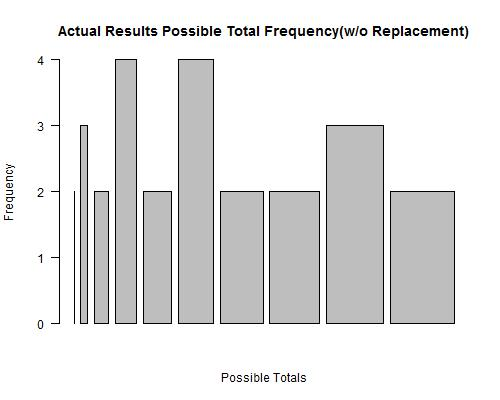
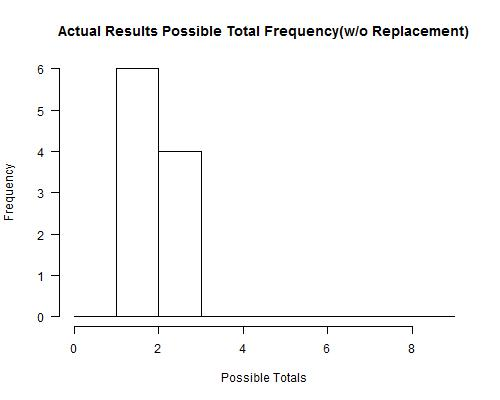
Negative Binomial

diff --git a/src/Controller/RConnector.java b/src/Controller/RConnector.java
@@ -135,25 +135,17 @@ import java.io.FileNotFoundException;
      return result;
    }
    
-   public static int[][] nbinomialWithReplacement()throws RserveException, REXPMismatchException, FileNotFoundException, IOException {  
+   public static int[] nbinomial()throws RserveException, REXPMismatchException, FileNotFoundException, IOException {  
      RConnection c = new RConnection("localhost", 6311);  
-     int[][] result = new int[Card.nTrials][Card.drawCards];
-     int i=0,j=0;
-     int[] temp = new int[Card.drawCards];
+     int[] result = new int[Card.nTrials];
+     int i=0;
      if(c.isConnected()) {  
        System.out.println("Connected to RServe.");  
        org.rosuda.REngine.REXP x0 = c.eval("R.version.string");  
        System.out.println(x0.asString());  
        while(i<Card.nTrials){
         REXP exp = c.eval("rnbinom(1,"+Card.drawCards+",0.5)");
-        for(int k=0; k<exp.asIntegers().length; k++){
-            temp[k] = exp.asIntegers()[k];
-        }
-        while(j<Card.drawCards){
-            result[i][j] = temp[j];
-            j++;
-        }
-        j=0;
+        result[i] = exp.asInteger();
         i++;
        }
      } else {  
@@ -303,5 +295,118 @@ import java.io.FileNotFoundException;
      c.close();  
      System.out.println("Session Closed");  
    }  
+   
+   public static void createPlot1D(int[] result1,int[] result2)throws RserveException, REXPMismatchException, FileNotFoundException, IOException {  
+     RConnection c = new RConnection("localhost", 6311);  
+     if(c.isConnected()) {  
+       System.out.println("Connected to RServe.");  
+       org.rosuda.REngine.REXP x0 = c.eval("R.version.string");  
+       System.out.println(x0.asString());
+       String temp = "";
+       int total = 0;
+       for(int i=0; i<result1.length; i++){
+           total = result1[i];
+           if(i==0)
+               temp = temp.concat(total+"");
+           else
+               temp = temp.concat(","+total);
+       }
+        c.voidEval("y = seq(0,"+(Card.nTrials-1)+",1)");
+        c.voidEval("jpeg('NetBeansProjects/MODESTAMC02/plots/desiredtotalfrequency1.jpg',width=500,height=400)");
+        c.voidEval("barplot(c("+temp+"),y,main='Actual Results Possible Total Frequency(w/ Replacement)',xlab='Possible Totals',ylab='Frequency',las=1)");
+        c.voidEval("dev.off()");
+        if(Card.experiment != 1){
+            temp = "";
+            for(int i=0; i<result2.length; i++){
+               total = result2[i];
+               if(i==0)
+                   temp = temp.concat(total+"");
+               else
+                   temp = temp.concat(","+total);
+           }
+            c.voidEval("y = seq(0,"+(Card.nTrials-1)+",1)");
+            c.voidEval("jpeg('NetBeansProjects/MODESTAMC02/plots/desiredtotalfrequency2.jpg',width=500,height=400)");
+            c.voidEval("barplot(c("+temp+"),y,main='Actual Results Possible Total Frequency(w/o Replacement)',xlab='Possible Totals',ylab='Frequency',las=1)");
+            c.voidEval("dev.off()");
+        }
+        temp = "";
+        double d;
+        for(int i=0; i<result1.length; i++){
+           total = result1[i];
+           d = total/(Card.drawCards*13);
+           if(Card.experiment == 0)
+               d = (double)total/(Card.drawCards);
+           else if(Card.experiment == 1)
+               d = (double)total/26;
+           if(i==0)
+               temp = temp.concat(d+"");
+           else
+               temp = temp.concat(","+d);
+       }
+         System.out.println(temp);
+        c.voidEval("y = seq(0,"+(Card.nTrials-1)+",1)");
+        c.voidEval("jpeg('NetBeansProjects/MODESTAMC02/plots/actualprobability1.jpg',width=500,height=400)");
+        c.voidEval("barplot(c("+temp+"),y,main='Actual Probability Distribution of Possible Totals(w/ Replacement)',xlab='Possible Totals',ylab='Probability',las=1)");
+        c.voidEval("dev.off()");
+        if(Card.experiment != 1){
+            temp = "";
+            for(int i=0; i<result2.length; i++){
+               total = result2[i];
+               d = total/(Card.drawCards*13);
+               if(Card.experiment == 0)
+                   d = (double)total/(Card.drawCards);
+               else if(Card.experiment == 1)
+               d = (double)total/26;
+               if(i==0)
+                   temp = temp.concat(d+"");
+               else
+                   temp = temp.concat(","+d);
+           }
+            System.out.println(temp);
+            c.voidEval("y = seq(0,"+(Card.nTrials-1)+",1)");
+            c.voidEval("jpeg('NetBeansProjects/MODESTAMC02/plots/actualprobability2.jpg',width=500,height=400)");
+            c.voidEval("barplot(c("+temp+"),y,main='Actual Probability Distribution of Possible Totals(w/o Replacement)',xlab='Possible Totals',ylab='Probability',las=1)");
+            c.voidEval("dev.off()");
+        }
+        temp = "";
+        for(int i=0; i<result1.length; i++){
+           d = Card.desiredTotal/(Card.drawCards*13);
+           if(Card.experiment == 0)
+               d = (double)Card.desiredTotal/(Card.drawCards);
+           else if(Card.experiment == 1)
+               d = (double)Card.desiredTotal/26;
+           if(i==0)
+               temp = temp.concat(d+"");
+           else
+               temp = temp.concat(","+d);
+       }
+        c.voidEval("y = seq(0,"+(Card.nTrials-1)+",1)");
+        c.voidEval("jpeg('NetBeansProjects/MODESTAMC02/plots/idealprobability1.jpg',width=500,height=400)");
+        c.voidEval("barplot(c("+temp+"),y,main='Ideal Probability Distribution of Possible Totals(w/ Replacement)',xlab='Possible Totals',ylab='Probability',las=1)");
+        c.voidEval("dev.off()");
+        if(Card.experiment != 1){
+            temp = "";
+            for(int i=0; i<result2.length; i++){
+               d = Card.desiredTotal/(Card.drawCards*13);
+               if(Card.experiment == 0)
+                   d = (double)Card.desiredTotal/(Card.drawCards);
+               else if(Card.experiment == 1)
+               d = (double)Card.desiredTotal/26;
+               if(i==0)
+                   temp = temp.concat(d+"");
+               else
+                   temp = temp.concat(","+d);
+           }
+            c.voidEval("y = seq(0,"+(Card.nTrials-1)+",1)");
+            c.voidEval("jpeg('NetBeansProjects/MODESTAMC02/plots/idealprobability2.jpg',width=500,height=400)");
+            c.voidEval("barplot(c("+temp+"),y,main='Ideal Probability Distribution of Possible Totals(w/o Replacement)',xlab='Possible Totals',ylab='Probability',las=1)");
+            c.voidEval("dev.off()");
+        }
+     } else {  
+       System.out.println("Rserve could not connect");  
+     }  
+     c.close();  
+     System.out.println("Session Closed");  
+   }
    
  }  

diff --git a/src/View/DesiredTotal.java b/src/View/DesiredTotal.java
@@ -9,6 +9,7 @@ package View;
  *
  * @author msi
  */
+import Controller.RConnector;
 import Controller.SaveLoadController;
 import Model.Card;
 import javax.swing.*;
@@ -50,6 +51,50 @@ public class DesiredTotal extends JFrame implements ActionListener{
             
             else{
                 Card.desiredTotal = Integer.parseInt(input.getText().toString());
+                int[][] result1 = new int[Card.nTrials][Card.drawCards];
+                int[][] result2 = new int[Card.nTrials][Card.drawCards];
+                int[] result3 = new int[Card.nTrials];
+                int[] result4 = new int[Card.nTrials];
+                try{
+                    if(Card.experiment == 0){
+                        //binomial
+                        result1 = Controller.RConnector.binomialWithReplacement();
+                        result2 = Controller.RConnector.binomialWithoutReplacement();
+                        SaveLoadController.saveLog2DArray(result1, result2);
+                        RConnector.createPlot(result1, result2);
+                    }
+                    else if(Card.experiment == 1){
+                        //negative binomial
+                        result3 = Controller.RConnector.nbinomial();
+                        result4 = null;
+                        SaveLoadController.saveLog1DArray(result3, result4);
+                        RConnector.createPlot1D(result3, result4);
+                        
+                    }
+                    else if(Card.experiment == 2){
+                        //hypergeometric
+                        result1 = Controller.RConnector.withReplacement();
+                        result2 = Controller.RConnector.withoutReplacement();
+                        SaveLoadController.saveLog2DArray(result1, result2);
+                        RConnector.createPlot(result1, result2);
+                    }
+                    else if(Card.experiment == 3){
+                        //multinomial
+                        result1 = Controller.RConnector.withReplacement();
+                        result2 = Controller.RConnector.withoutReplacement();
+                        SaveLoadController.saveLog2DArray(result1, result2);
+                        RConnector.createPlot(result1, result2);
+                    }
+                    else{
+                        result1 = Controller.RConnector.withReplacement();
+                        result2 = Controller.RConnector.withoutReplacement();
+                        SaveLoadController.saveLog2DArray(result1, result2);
+                        RConnector.createPlot(result1, result2);
+                    }
+                    
+                }catch(Exception err){
+                    err.printStackTrace();
+                }
                 SaveLoadController.checkLog();
                 FrameManager.getAnotherFrame("IdealActualProbability");
             }

diff --git a/src/View/GraphActualIdealProb.java b/src/View/GraphActualIdealProb.java
@@ -65,28 +65,35 @@ public class GraphActualIdealProb extends JFrame implements ActionListener{
             e.printStackTrace();
         }
         
-        path = "plots/actualprobability2.jpg";
-        try{
-            File file = new File(path);
-            BufferedImage image = ImageIO.read(file);
-            JLabel label = new JLabel(new ImageIcon(image));
-            label.setBounds(0,400,500,400);
-            label.setVisible(true);
-            this.add(label);
-        } catch(IOException e){
-            e.printStackTrace();
+        if(Card.experiment != 1){
+            path = "plots/actualprobability2.jpg";
+            try{
+                File file = new File(path);
+                BufferedImage image = ImageIO.read(file);
+                JLabel label = new JLabel(new ImageIcon(image));
+                label.setBounds(0,400,500,400);
+                label.setVisible(true);
+                this.add(label);
+            } catch(IOException e){
+                e.printStackTrace();
+            }
+
+            path = "plots/idealprobability2.jpg";
+            try{
+                File file = new File(path);
+                BufferedImage image = ImageIO.read(file);
+                JLabel label = new JLabel(new ImageIcon(image));
+                label.setBounds(500,400,500,400);
+                label.setVisible(true);
+                this.add(label);
+            } catch(IOException e){
+                e.printStackTrace();
+            }
         }
-        
-        path = "plots/idealprobability2.jpg";
-        try{
-            File file = new File(path);
-            BufferedImage image = ImageIO.read(file);
-            JLabel label = new JLabel(new ImageIcon(image));
-            label.setBounds(500,400,500,400);
-            label.setVisible(true);
-            this.add(label);
-        } catch(IOException e){
-            e.printStackTrace();
+        else{
+            btnInput.setBounds(110,420,70,30);
+            btnBack.setBounds(10,420,70,30);
+            this.setSize(1050,500);
         }
         //this.setVisible(true);
         

diff --git a/src/View/NSelection.java b/src/View/NSelection.java
@@ -54,39 +54,6 @@ public class NSelection extends JFrame implements ActionListener{
             
             else{
                 Card.nTrials = Integer.parseInt(input.getText().toString());
-                //do experiments and save in txt file
-                int[][] result1 = new int[Card.nTrials][Card.drawCards];
-                int[][] result2 = new int[Card.nTrials][Card.drawCards];
-                try{
-                    if(Card.experiment == 0){
-                        //binomial
-                        result1 = Controller.RConnector.binomialWithReplacement();
-                        result2 = Controller.RConnector.binomialWithoutReplacement();
-                    }
-                    else if(Card.experiment == 1){
-                        //negative binomial
-                        result1 = Controller.RConnector.withReplacement();
-                        result2 = Controller.RConnector.withoutReplacement();
-                    }
-                    else if(Card.experiment == 2){
-                        //hypergeometric
-                        result1 = Controller.RConnector.withReplacement();
-                        result2 = Controller.RConnector.withoutReplacement();
-                    }
-                    else if(Card.experiment == 3){
-                        //multinomial
-                        result1 = Controller.RConnector.withReplacement();
-                        result2 = Controller.RConnector.withoutReplacement();
-                    }
-                    else{
-                        result1 = Controller.RConnector.withReplacement();
-                        result2 = Controller.RConnector.withoutReplacement();
-                    }
-                    SaveLoadController.saveLog2DArray(result1, result2);
-                    RConnector.createPlot(result1, result2);
-                }catch(Exception err){
-                    err.printStackTrace();
-                }
                 FrameManager.getAnotherFrame("DesiredTotal");
             }
         }

diff --git a/src/View/GraphActualResults.java b/src/View/GraphActualResults.java
@@ -52,16 +52,21 @@ public class GraphActualResults extends JFrame implements ActionListener{
             e.printStackTrace();
         }
         
-        path = "plots/desiredtotalfrequency2.jpg";
-        try{
-            File file = new File(path);
-            BufferedImage image = ImageIO.read(file);
-            JLabel label = new JLabel(new ImageIcon(image));
-            label.setBounds(500,0,500,400);
-            label.setVisible(true);
-            this.add(label);
-        } catch(IOException e){
-            e.printStackTrace();
+        if(Card.experiment != 1){
+            path = "plots/desiredtotalfrequency2.jpg";
+            try{
+                File file = new File(path);
+                BufferedImage image = ImageIO.read(file);
+                JLabel label = new JLabel(new ImageIcon(image));
+                label.setBounds(500,0,500,400);
+                label.setVisible(true);
+                this.add(label);
+            } catch(IOException e){
+                e.printStackTrace();
+            }
+        }
+        else{
+            this.setSize(550,500);
         }
         //this.setVisible(true);
         

diff --git a/src/View/IdealActualProbability.java b/src/View/IdealActualProbability.java
@@ -43,11 +43,19 @@ public class IdealActualProbability extends JFrame implements ActionListener{
         this.setLayout(null);
         this.add(lbl1);
         this.add(lbl2);
-        this.add(lbl3);
         this.add(lbl4);
         this.add(lbl5);
-        this.add(lbl6);
         this.add(btnNext);
+        
+        if(Card.experiment != 1){
+            this.add(lbl3);
+            this.add(lbl6);
+        }
+        else{
+            lbl4.setBounds(10,80,400,30);
+            lbl5.setBounds(10,120,400,30);
+            btnNext.setBounds(10,160,70,30);
+        }
         
     }
     

diff --git a/src/Controller/SaveLoadController.java b/src/Controller/SaveLoadController.java
@@ -131,6 +131,9 @@ public class SaveLoadController {
         
         Card.dtWithRep = withRCount;
         Card.dtWithoutRep = withoutRCount;
+        
+        if(Card.experiment == 1)
+            Card.dtWithoutRep = -1;
                       
     }
     
